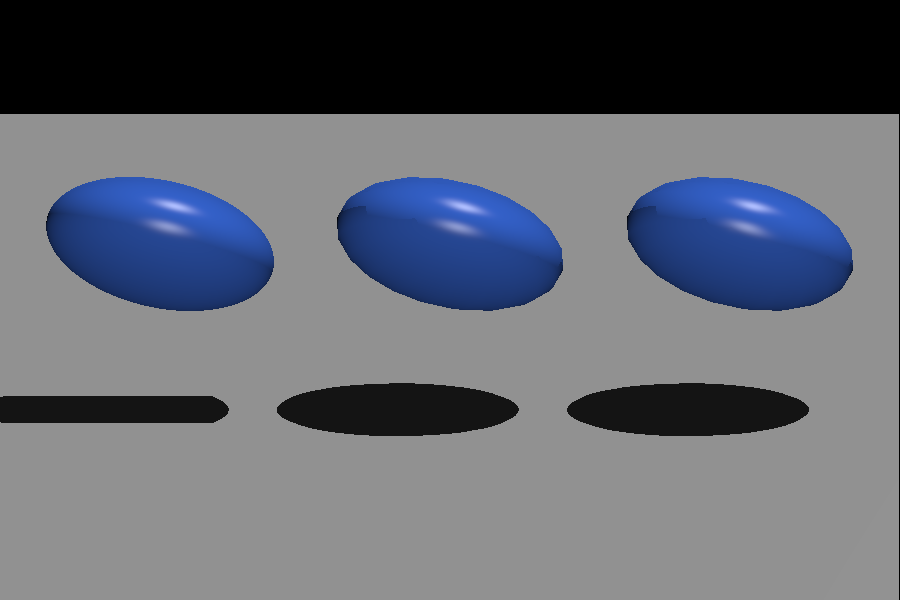
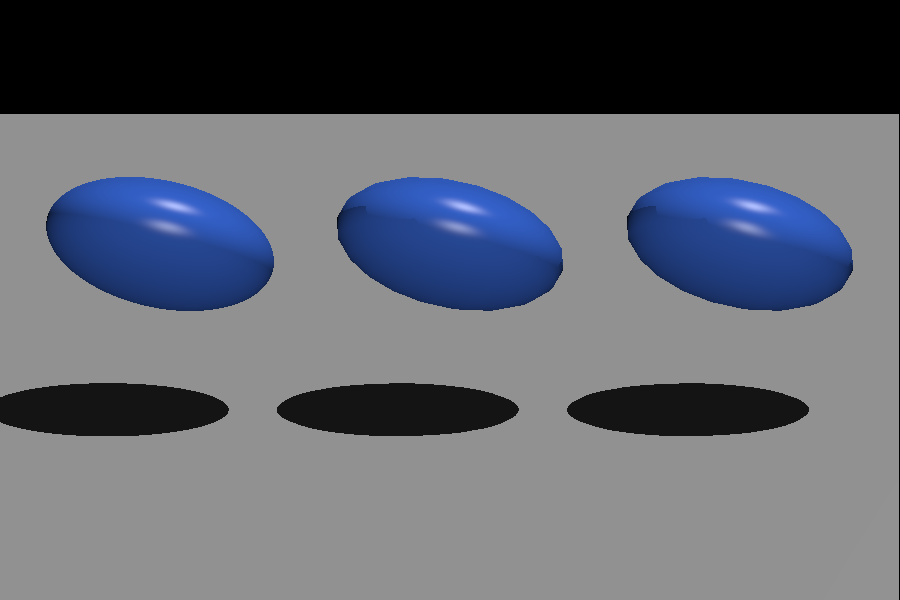
Added cylinder test image

Changed region(s): [[0.0, 0.69, 0.2178, 0.75], [0.0, 0.63, 0.2178, 0.66]]

diff --git a/ray/surface/Surface.java b/ray/surface/Surface.java
@@ -151,13 +151,62 @@ public abstract class Surface {
     	transformPoint(backRightTop);
     	transformPoint(backRightBottom);
     	transformPoint(backLeftTop);
-    	transformPoint(backLeftBottom);
+    	transformPoint(backLeftBottom);	
     	
-    	//re-calculate min and max points and average position
+    	maxBound.x = Math.max(frontRightTop.x, frontRightBottom.x);
+    	maxBound.x = Math.max(maxBound.x, frontLeftTop.x);
+    	maxBound.x = Math.max(maxBound.x, frontLeftBottom.x);
+    	maxBound.x = Math.max(maxBound.x, backRightTop.x);
+    	maxBound.x = Math.max(maxBound.x, backRightBottom.x);
+    	maxBound.x = Math.max(maxBound.x, backLeftTop.x);
+    	maxBound.x = Math.max(maxBound.x, backLeftBottom.x);
     	
-    	transformPoint(averagePosition);
-    	transformPoint(minBound);
-    	transformPoint(maxBound);
+    	maxBound.y = Math.max(frontRightTop.y, frontRightBottom.y);
+    	maxBound.y = Math.max(maxBound.y, frontLeftTop.y);
+    	maxBound.y = Math.max(maxBound.y, frontLeftBottom.y);
+    	maxBound.y = Math.max(maxBound.y, backRightTop.y);
+    	maxBound.y = Math.max(maxBound.y, backRightBottom.y);
+    	maxBound.y = Math.max(maxBound.y, backLeftTop.y);
+    	maxBound.y = Math.max(maxBound.y, backLeftBottom.y);
+
+    	maxBound.z = Math.max(frontRightTop.z, frontRightBottom.z);
+    	maxBound.z = Math.max(maxBound.z, frontLeftTop.z);
+    	maxBound.z = Math.max(maxBound.z, frontLeftBottom.z);
+    	maxBound.z = Math.max(maxBound.z, backRightTop.z);
+    	maxBound.z = Math.max(maxBound.z, backRightBottom.z);
+    	maxBound.z = Math.max(maxBound.z, backLeftTop.z);
+    	maxBound.z = Math.max(maxBound.z, backLeftBottom.z);
+
+    	minBound.x = Math.min(frontRightTop.x, frontRightBottom.x);
+    	minBound.x = Math.min(minBound.x, frontLeftTop.x);
+    	minBound.x = Math.min(minBound.x, frontLeftBottom.x);
+    	minBound.x = Math.min(minBound.x, backRightTop.x);
+    	minBound.x = Math.min(minBound.x, backRightBottom.x);
+    	minBound.x = Math.min(minBound.x, backLeftTop.x);
+    	minBound.x = Math.min(minBound.x, backLeftBottom.x);
+    	
+    	minBound.y = Math.min(frontRightTop.y, frontRightBottom.y);
+    	minBound.y = Math.min(minBound.y, frontLeftTop.y);
+    	minBound.y = Math.min(minBound.y, frontLeftBottom.y);
+    	minBound.y = Math.min(minBound.y, backRightTop.y);
+    	minBound.y = Math.min(minBound.y, backRightBottom.y);
+    	minBound.y = Math.min(minBound.y, backLeftTop.y);
+    	minBound.y = Math.min(minBound.y, backLeftBottom.y);
+
+    	minBound.z = Math.min(frontRightTop.z, frontRightBottom.z);
+    	minBound.z = Math.min(minBound.z, frontLeftTop.z);
+    	minBound.z = Math.min(minBound.z, frontLeftBottom.z);
+    	minBound.z = Math.min(minBound.z, backRightTop.z);
+    	minBound.z = Math.min(minBound.z, backRightBottom.z);
+    	minBound.z = Math.min(minBound.z, backLeftTop.z);
+    	minBound.z = Math.min(minBound.z, backLeftBottom.x);
+    	
+    	Point3 tmp1 = new Point3(minBound);
+    	Vector3 tmp2 = new Vector3(maxBound);
+    	tmp1.add(tmp2);
+    	tmp1.scale(0.5);
+    	
+    	averagePosition = tmp1;
     }
 
 }
